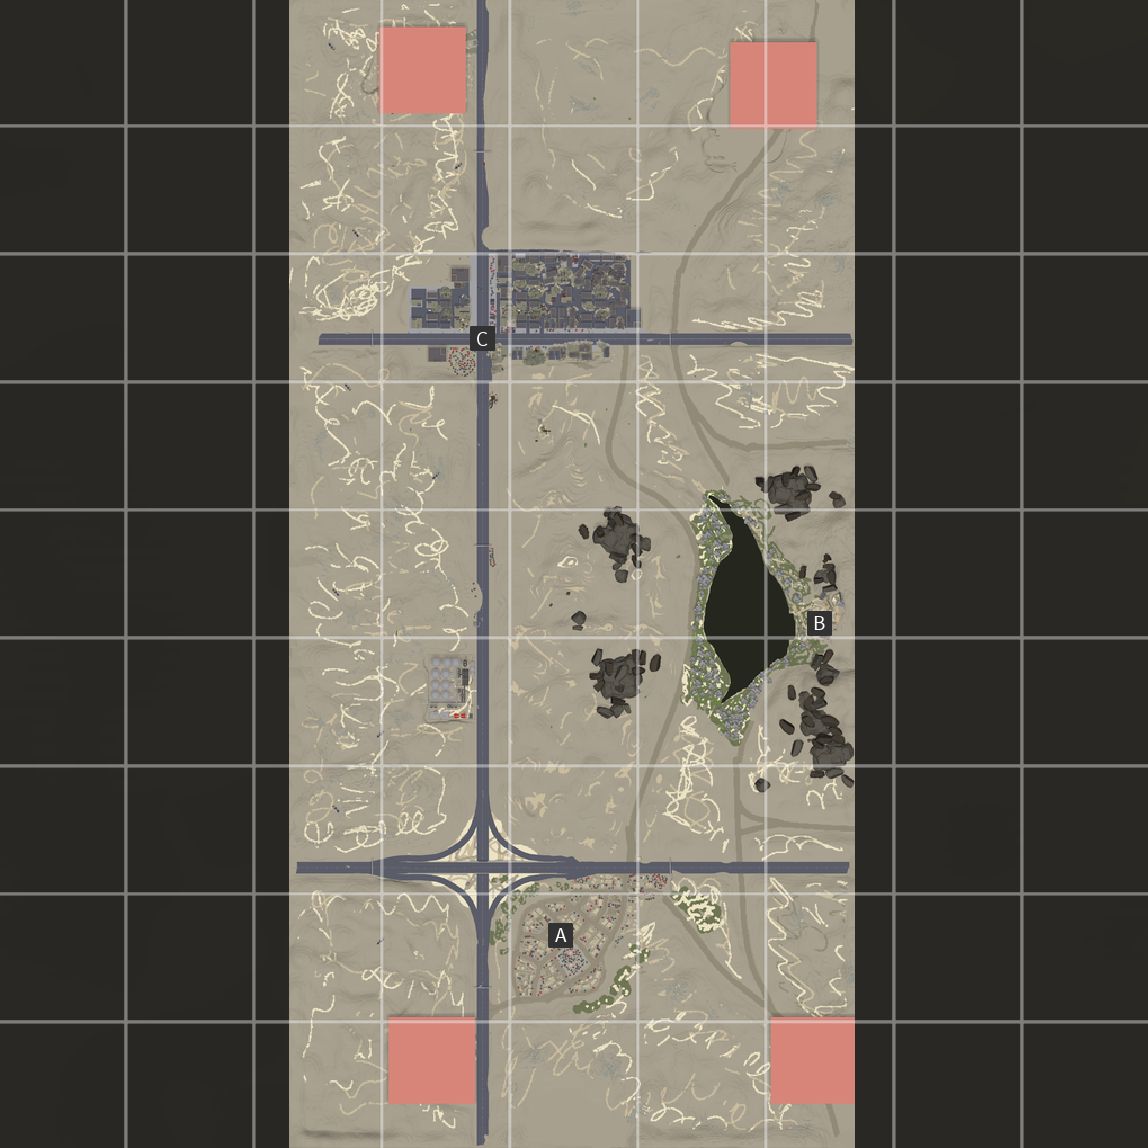
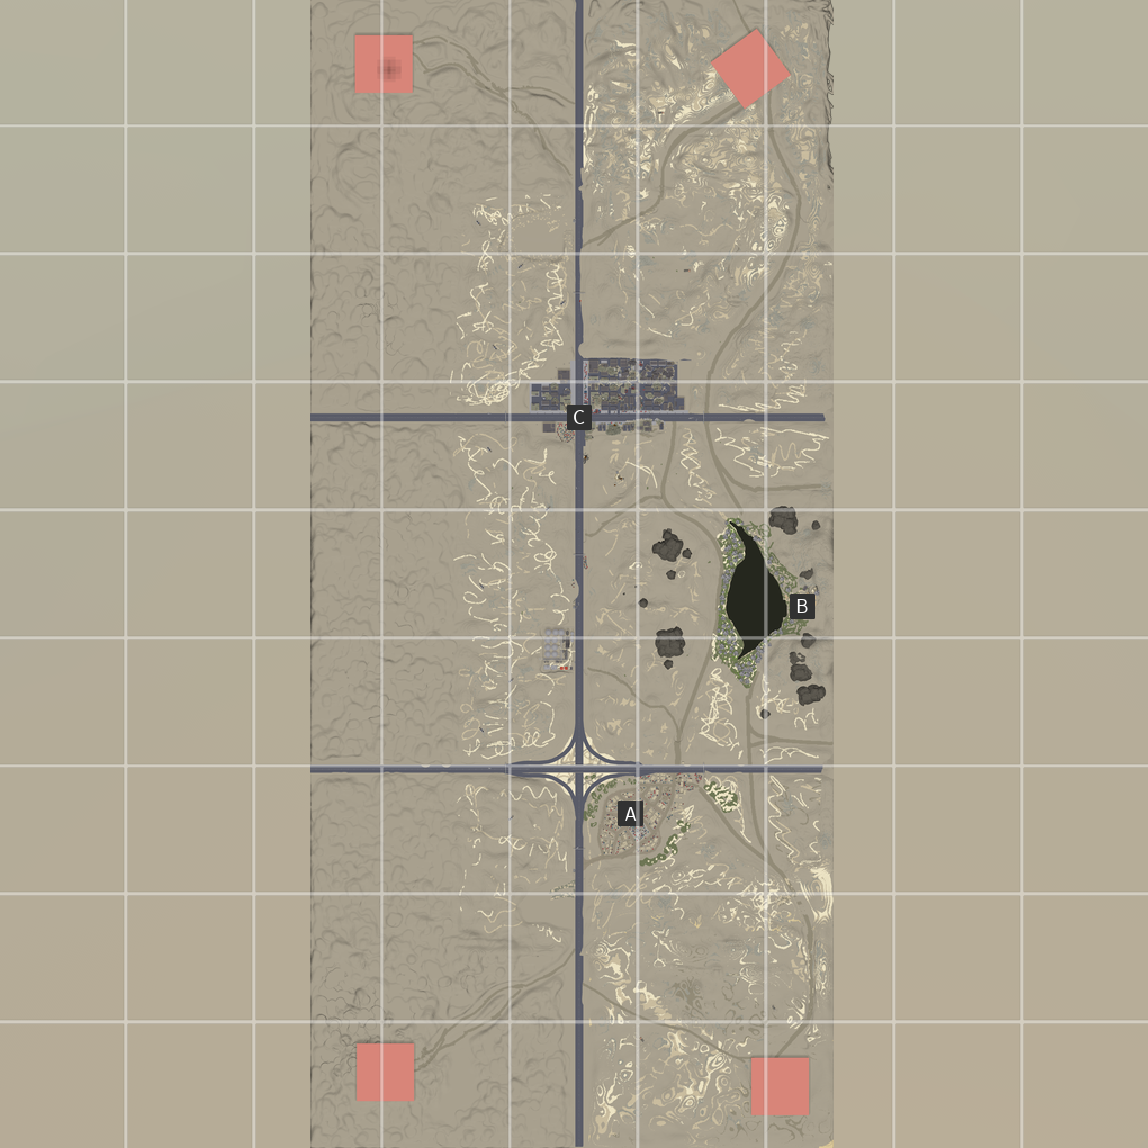
update sandy

diff --git a/src/config/maps.ts b/src/config/maps.ts
@@ -98,7 +98,7 @@ export const maps: Map[] = [
   {
     image: 'sandy_place',
     name: 'Sandy Place',
-    size: calculateMapSize(240),
+    size: calculateMapSize(361),
   },
   {
     image: 'testing',
